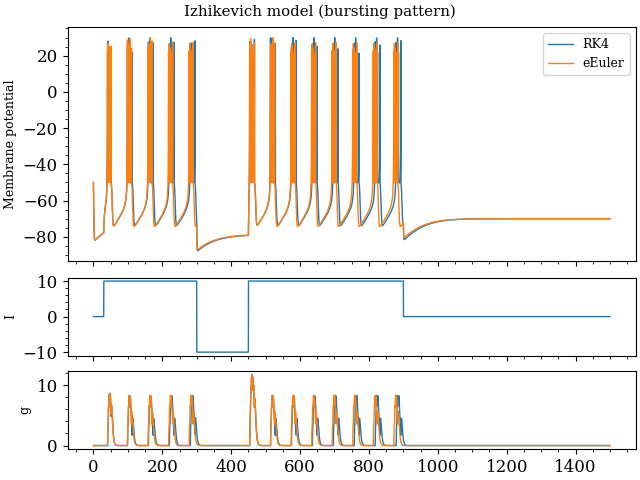
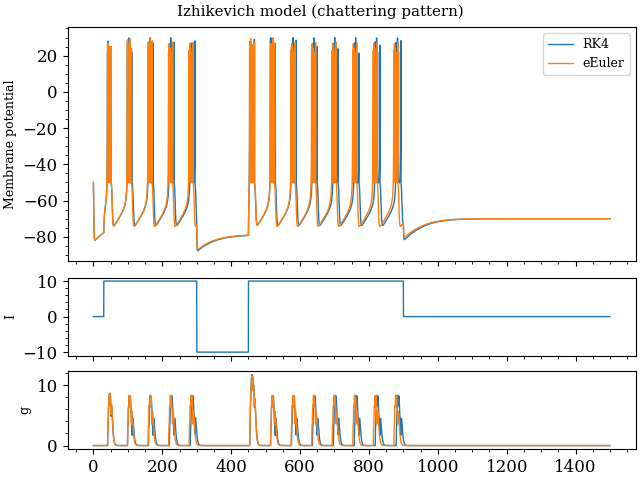
minor

Changed region(s): [[0.2812, 0.0, 0.7188, 0.0625]]

diff --git a/test.py b/test.py
@@ -50,5 +50,5 @@ axs["V"].legend()
 axs["V"].set_ylabel("Membrane potential")
 axs["I"].set_ylabel("I")
 axs["g"].set_ylabel("g")
-fig.suptitle("Izhikevich model (bursting pattern)")
+fig.suptitle("Izhikevich model (chattering pattern)")
 plt.show()
